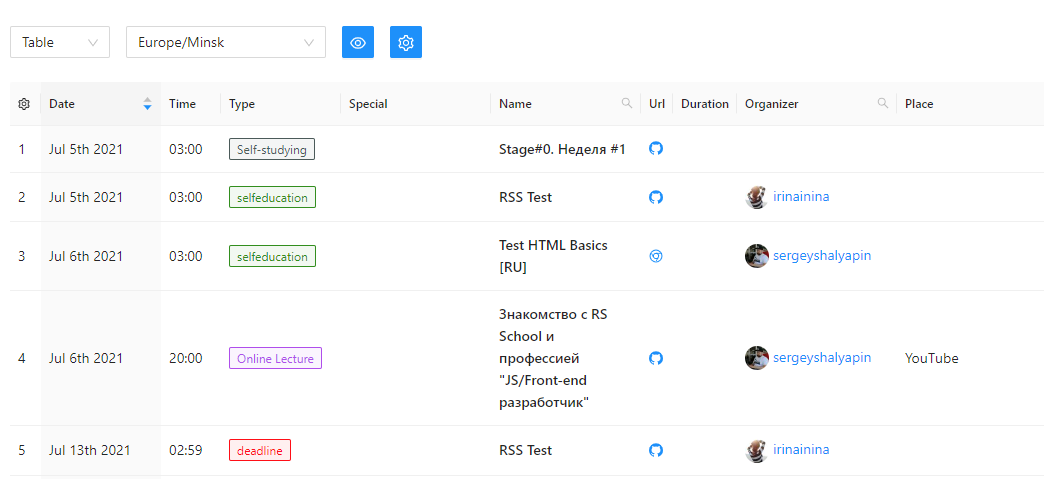
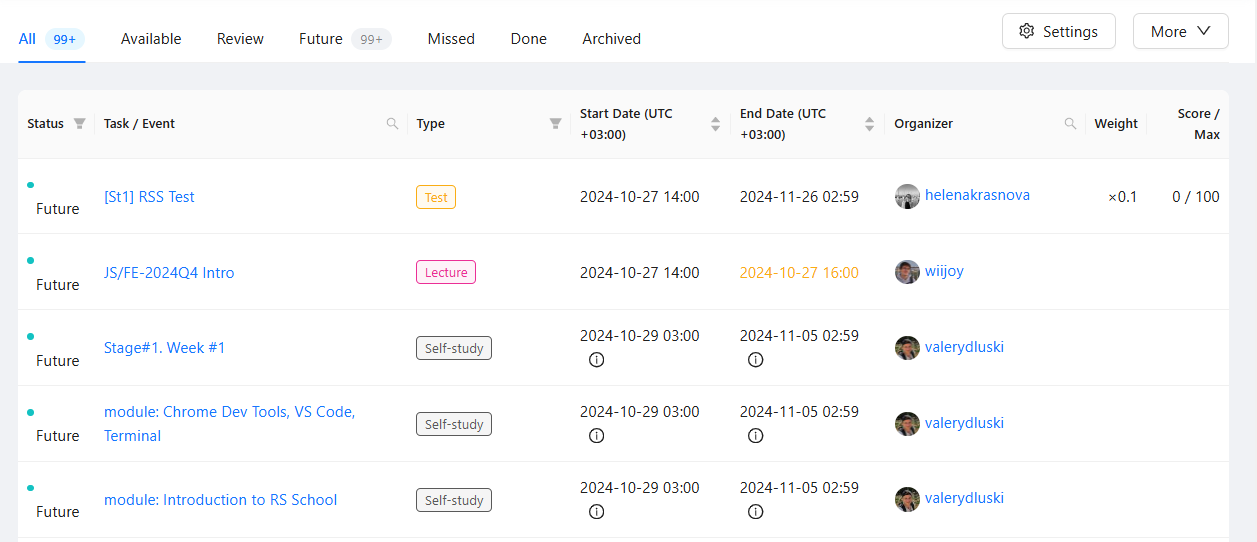
fix: update rs app schedule section

diff --git a/docs/rs-app-schedule.md b/docs/rs-app-schedule.md
@@ -1,9 +1,9 @@
 ## Расписание в RS APP
 
-Для успешного прохождения выбранного курса в **RS APP** есть **расписание**, в которое можно попасть из главного меню
+Для успешного прохождения выбранного курса в **RS App** есть **расписание**, в которое можно попасть из главного меню
 
 1. Выбрать нужный курс
-2. Перейти по ссылке
+2. Перейти по ссылке или вкладке Schedule
 
 ![schedule](images/schedule-1.png)
 
@@ -15,57 +15,24 @@
 
 ![schedule control panel](images/schedule-3.png)
 
-1. Выбор вида расписания. Выбор сохраняется для устройства/браузера
-
-   - **Table** - максимально подробный вид расписания (открывается по умолчанию)
-   - **List** - наиболее компактный вид для мобильных устройств (открывается по умолчанию на мобильных)
-   - **Calendar** - классический календарь для обзора расписания
-
+1. Фильтрация по статусу задания
 2. Выбор часового пояса
-3. Переключатель, для скрытия прошедших событий
-4. Настройка цветов тегов событий. Для каждого события/задания можно выбрать цвет из предопределенного набора цветов. Выбор сохраняется для устройства/браузера
-
-Более тонкий вид настройки есть у **Table**, где можно скрыть часть колонок и события/задания по типам
-
-![table customizing](images/schedule-4.png)
+3. Скрыть/показать отдельные колонки таблицы
+4. Настройка цветов тегов событий
 
 #### Детали события/задания
 
-При переходе к странице деталей события/задания отображается максимально подробные данные.
+При переходе по ссылке из расписания открывается страница с описанием события/задания.
 
-![event/task details](images/schedule-5.png)
+#### Использование расписания
 
-#### Использование расписания студентами
+Для удобного использования расписания в RS App предусмотрены следующие возможности:
 
-Есть возможность поиска по названию события/задания или организатору, сортировка по датам (вид **Table**). Для перехода к деталям события/задания необходимо кликнуть по названию события/задания.
+![schedule control panel](images/schedule-4.png)
 
-### Дополнительные возможности расписания для администрации
-
-Для максимального удобства работы с расписанием предусмотрены следующие возможности редактирования расписания:
-
-1. Расширенная панель управления
-
-![schedule control panel admin](images/schedule-6.png)
-
-    **1** - Кнопка экспорта расписания курса в файл csv для редактирования целого курса
-    **2** - Кнопка импорта расписания курса из файла csv (добавляются новые или обновляются существующие события/задания)
-    **3** - Кнопка добавления единичного события/задания
-
-2. Быстрое редактирование для вида **Table**
-
-![schedule table edit](images/schedule-7.png)
-![schedule table edit](images/schedule-9.png)
-
-3. Добавление нового события/задания
-
-![add new entity](images/schedule-8.png)
-
-4. Редактирование события/задания также доступно на странице деталей события/задания
-
-![edit entity](images/schedule-10.png)
-
-#### Некоторые особенности заполнения расписания
-
-- Основные поля в событиях/заданиях изменяются сразу **во всех курсах**. Например, **Name**, **Type**, **Url**.
-
-- Поле **Special** позволяет дополнительно уточнить тип события/задания. Например, сделать его опциональным с помощью тега _optional_. Допустимо добавлять теги не только из предусмотренного списка.
+1. Фильтрация по статусу задания
+2. Поиск по названию события/задания
+3. Фильтрация по типу задания
+4. Сортировка по дате выдачи задания
+5. Сортировка по дате окончания задания
+6. Поиск по организатору

diff --git a/docs/rs-school-chats.md b/docs/rs-school-chats.md
@@ -19,7 +19,7 @@
 3. Категория создается вместе со стартом набора.
 4. Discord позволяет сворачивать и мьютать все каналы из категории.
 5. Для каждого канала в категории прописан channel topic, содержащий информацию о канале.
-6. Необходимо получить в [канале #role-assigner](https://discord.com/channels/516715744646660106/1120291411259035698/1120349319384535101) роль текущего курса - это позволит вам просматривать релевантные чаты.
+6. Необходимо получить в [канале #role-assigner](https://discord.com/channels/516715744646660106/1120291411259035698/1120349319384535101) роль текущего курса, что позволит вам не пропустить важные анонсы.
 
 Чтобы выбрать корректную роль в #role-assigner зайдите в [RS APP](https://app.rs.school/), выберите свой текущий курс:
 
